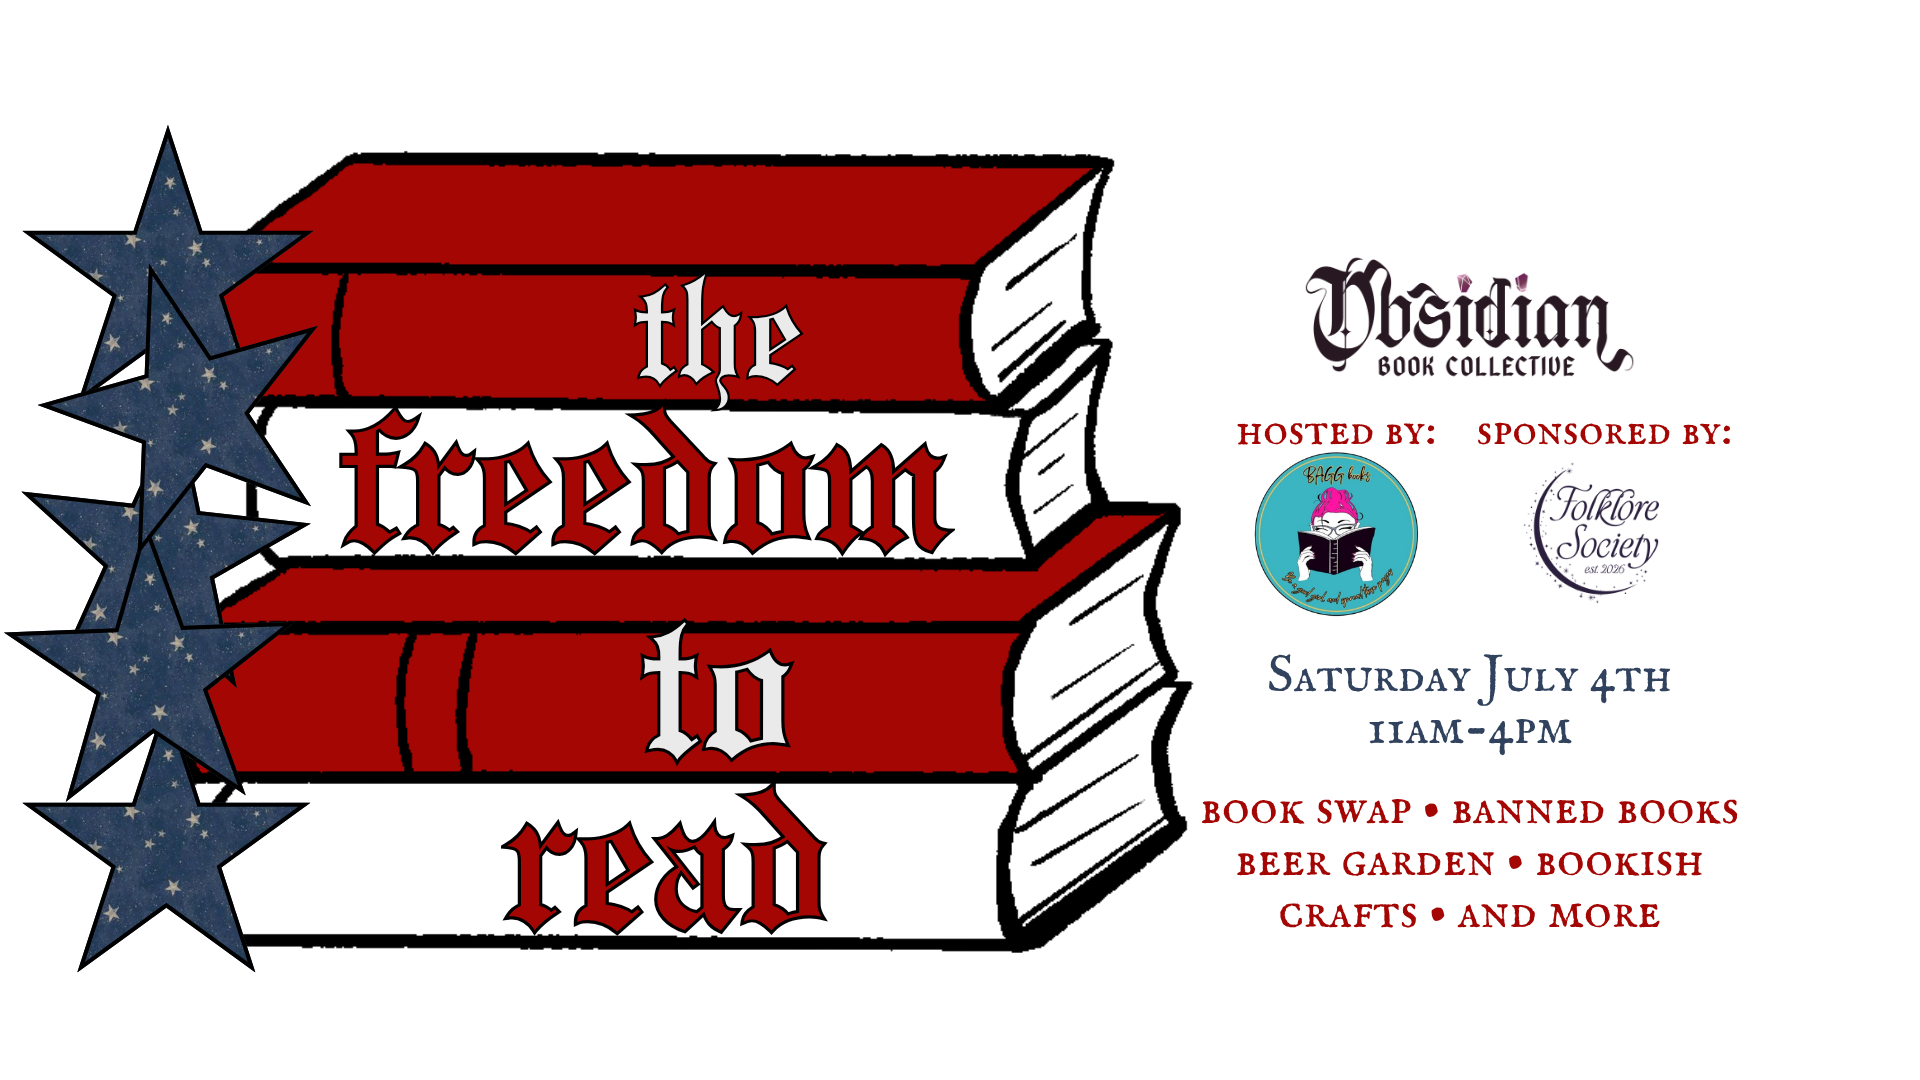
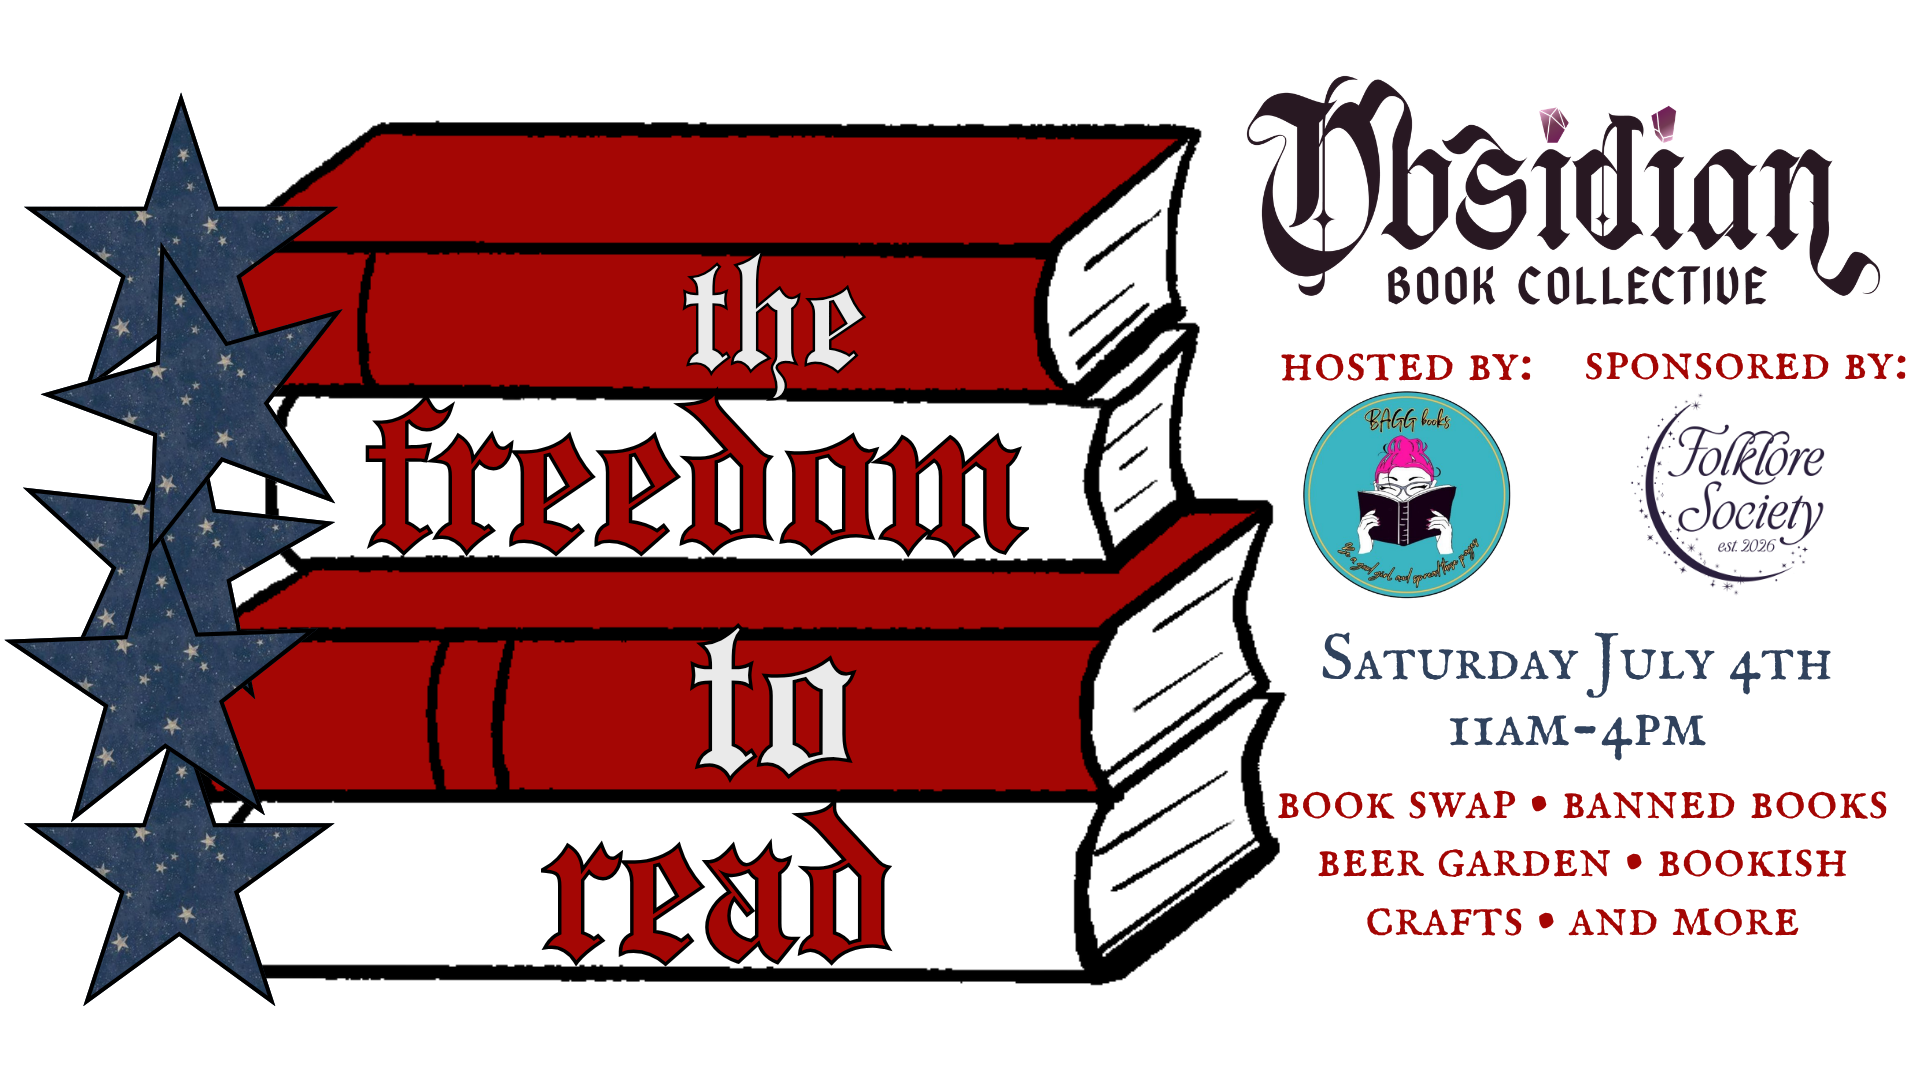
Update Freedom to Read flyer and shift accent to flag red
New flyer art (cleaner white-background version) and a per-page accent
shift copper -> flag red via the three --copper variables, matching the
flyer the way Romance Day matches its own. Other pages stay copper.

Changed region(s): [[0.0, 0.0611, 1.0, 0.9167]]

diff --git a/freedom-to-read/index.html b/freedom-to-read/index.html
@@ -78,9 +78,10 @@
       --ink-mute: #9a90aa;
       --cream: #faf8f5;
       --warm: #ede8f0;
-      --copper: #c17b4a;
-      --copper-lt: #f5ebe0;
-      --copper-soft: #d99060;
+      /* Freedom to Read: brand structure stays Folklore; accent shifts copper -> flag red to match the flyer */
+      --copper: #b3202a;
+      --copper-lt: #f7e4e2;
+      --copper-soft: #d6454e;
       --rule: rgba(42,31,61,0.12);
       --script: 'Take Me To Tuscany', cursive;
       --serif: 'Cormorant Garamond', Georgia, serif;